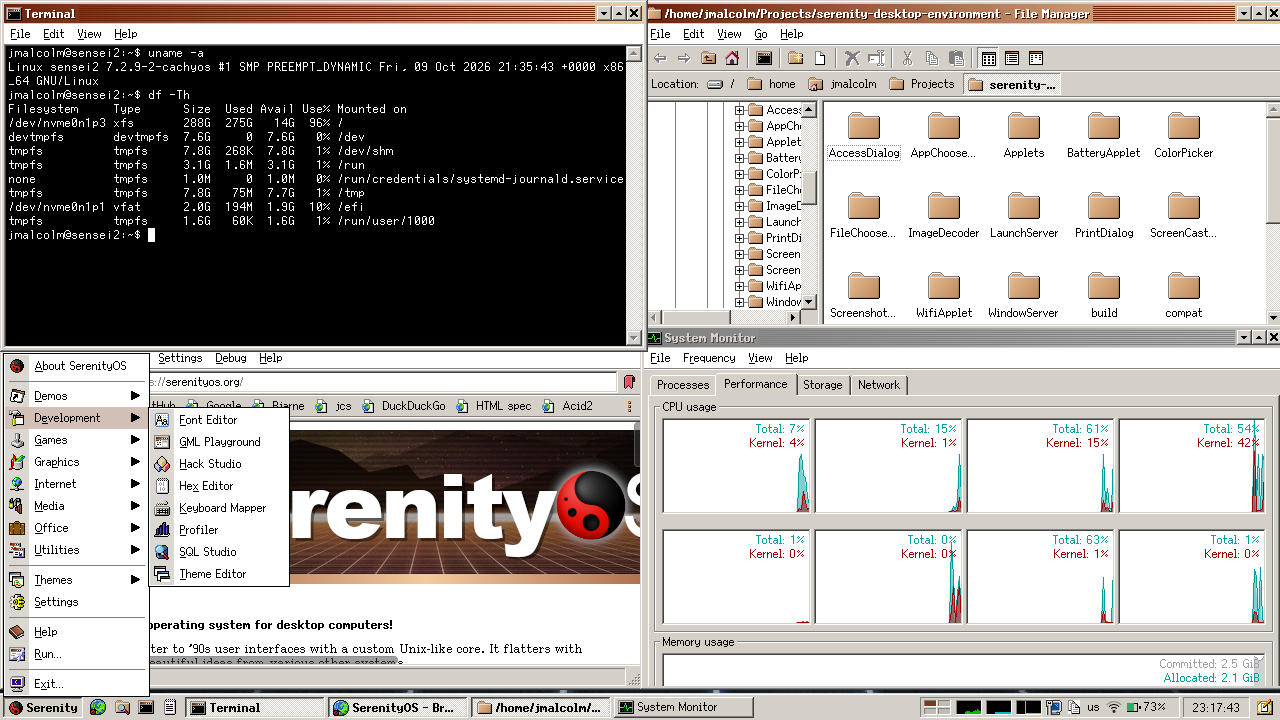
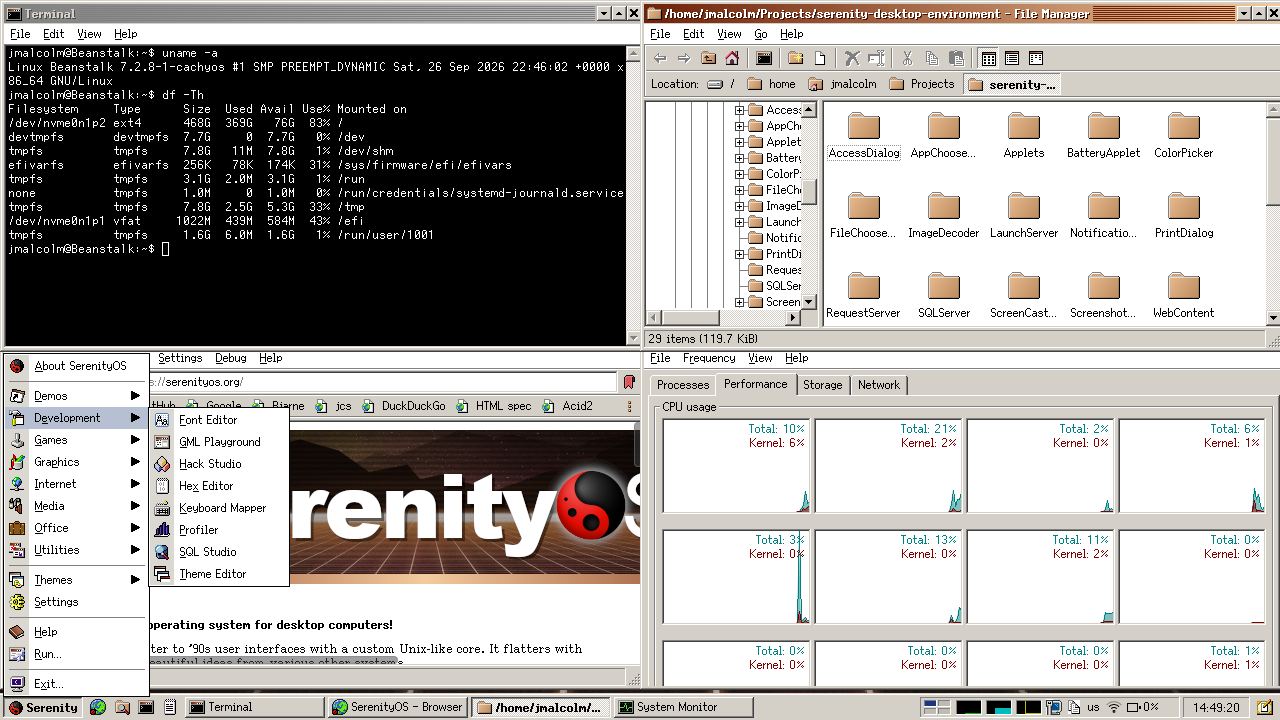
docs: regenerate the desktop scene screenshot (File Manager active)
Regenerate docs/images/sde-desktop.png with the active-window fix: exactly one
window (the File Manager, as in the SerenityOS reference) has the active titlebar
and the raised Taskbar button; the rest are inactive with sunken buttons.

Also fix scripts/run-desktop-scene.sh: the wallpaper default pointed at a
non-existent blue-grid.png, so the scene silently lost its wallpaper (the README
caption claimed one) -- fall back to the tree's grid.png. The capture now clicks
the File Manager before opening the Taskbar menu, so it is the active window.

diff --git a/docs/04-known-gaps.md b/docs/04-known-gaps.md
@@ -447,6 +447,17 @@ Compositor-facing detail lives in [`08-compositor-gaps.md`](08-compositor-gaps.m
 
 ## Recently resolved (kept so we don't re-chase them)
 
+- **Exactly one window is active at a time (R3/R5).** The compositor deactivated
+  the previous window only when the seat still reported a focused surface. A seat
+  with no keyboard — headless, or a session's first windows — reports none, so
+  every window kept its active frame (and raised Taskbar button) as it mapped even
+  though it was never focused; the desktop scene showed several windows with
+  active titlebars and no window marked active in the Taskbar. Focus now scans the
+  window list (`deactivate_other_windows` in `WindowServer/src/main.cpp`) and
+  reports the change to the WindowManagerServer, so exactly one window is active
+  and the Taskbar's active/sunken button states follow. Covered by
+  `scripts/run-active-window-test.sh`.
+
 - **SerenityOS window management: drag, unmaximize-on-move, Alt+Shift, animations
   (R3).** `Super`+left-drag moves a window and `Super`+right-drag resizes it from
   anywhere (the 3×3 hot area under the cursor picks the edges); dragging a

diff --git a/README.md b/README.md
@@ -2,7 +2,7 @@
 
 A project to recreate the **SerenityOS desktop experience** on Linux, built on **Wayland**.
 
-![The SDE desktop: the SerenityOS Taskbar with its system menu (Development) open, a Terminal running `uname -a` / `df -Th`, a File Manager, the Browser on serenityos.org, and the System Monitor's Performance tab, on the blue-grid wallpaper.](docs/images/sde-desktop.png)
+![The SDE desktop: the SerenityOS Taskbar with its system menu (Development) open, a Terminal running `uname -a` / `df -Th`, the active File Manager, the Browser on serenityos.org, and the System Monitor's Performance tab, on the SerenityOS grid wallpaper. The screenshot is generated by `scripts/run-desktop-scene.sh --headless --screenshot docs/images/sde-desktop.png`.](docs/images/sde-desktop.png)
 
 The stack is split across a small family of repositories:
 
